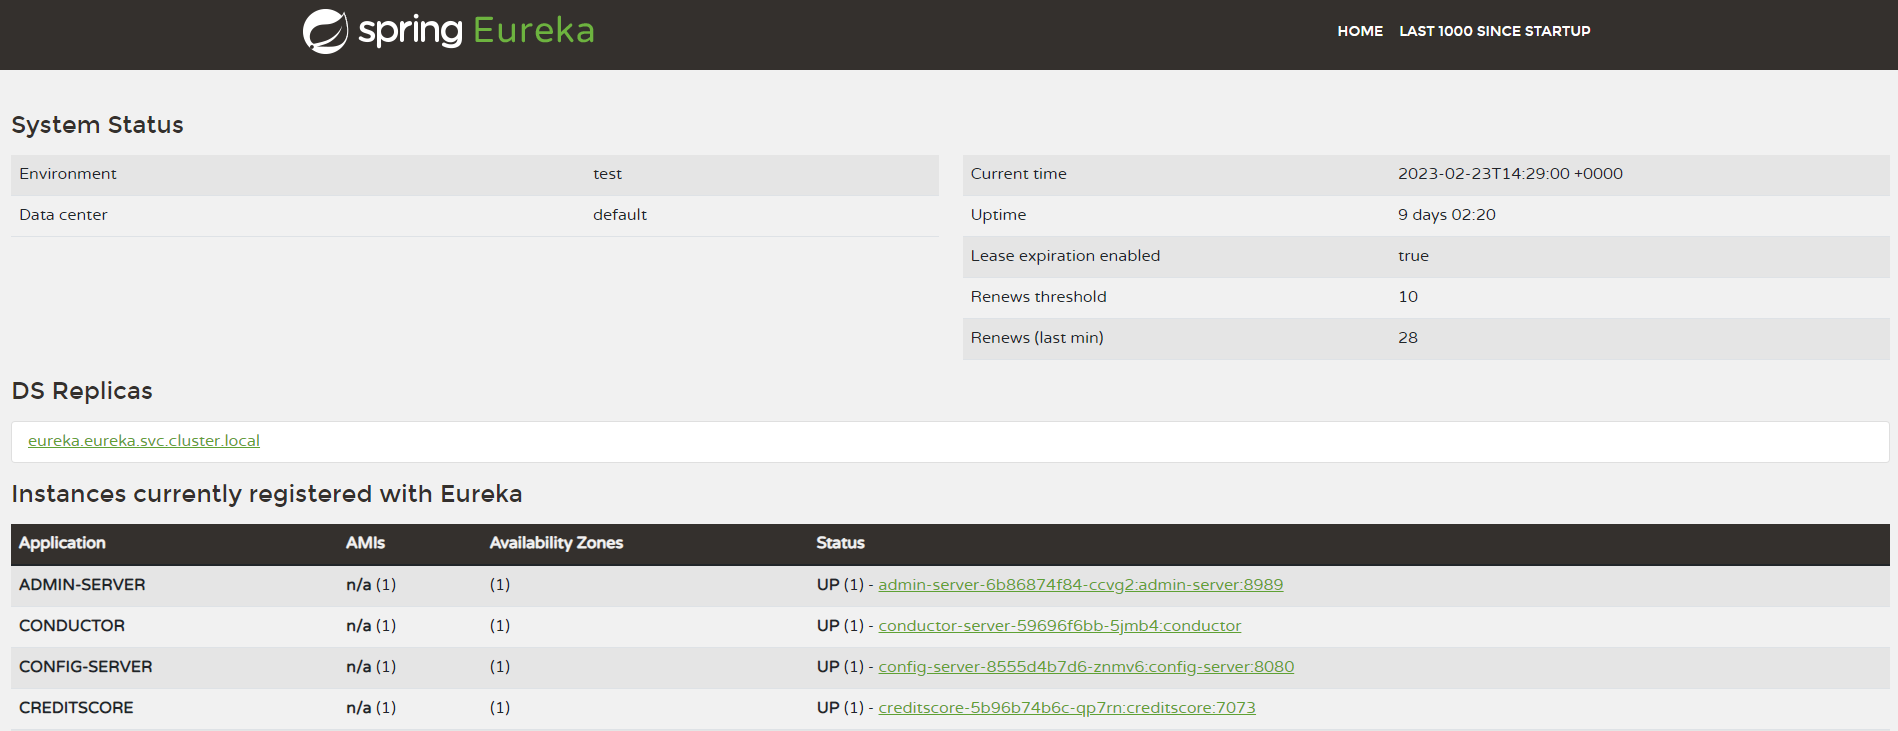
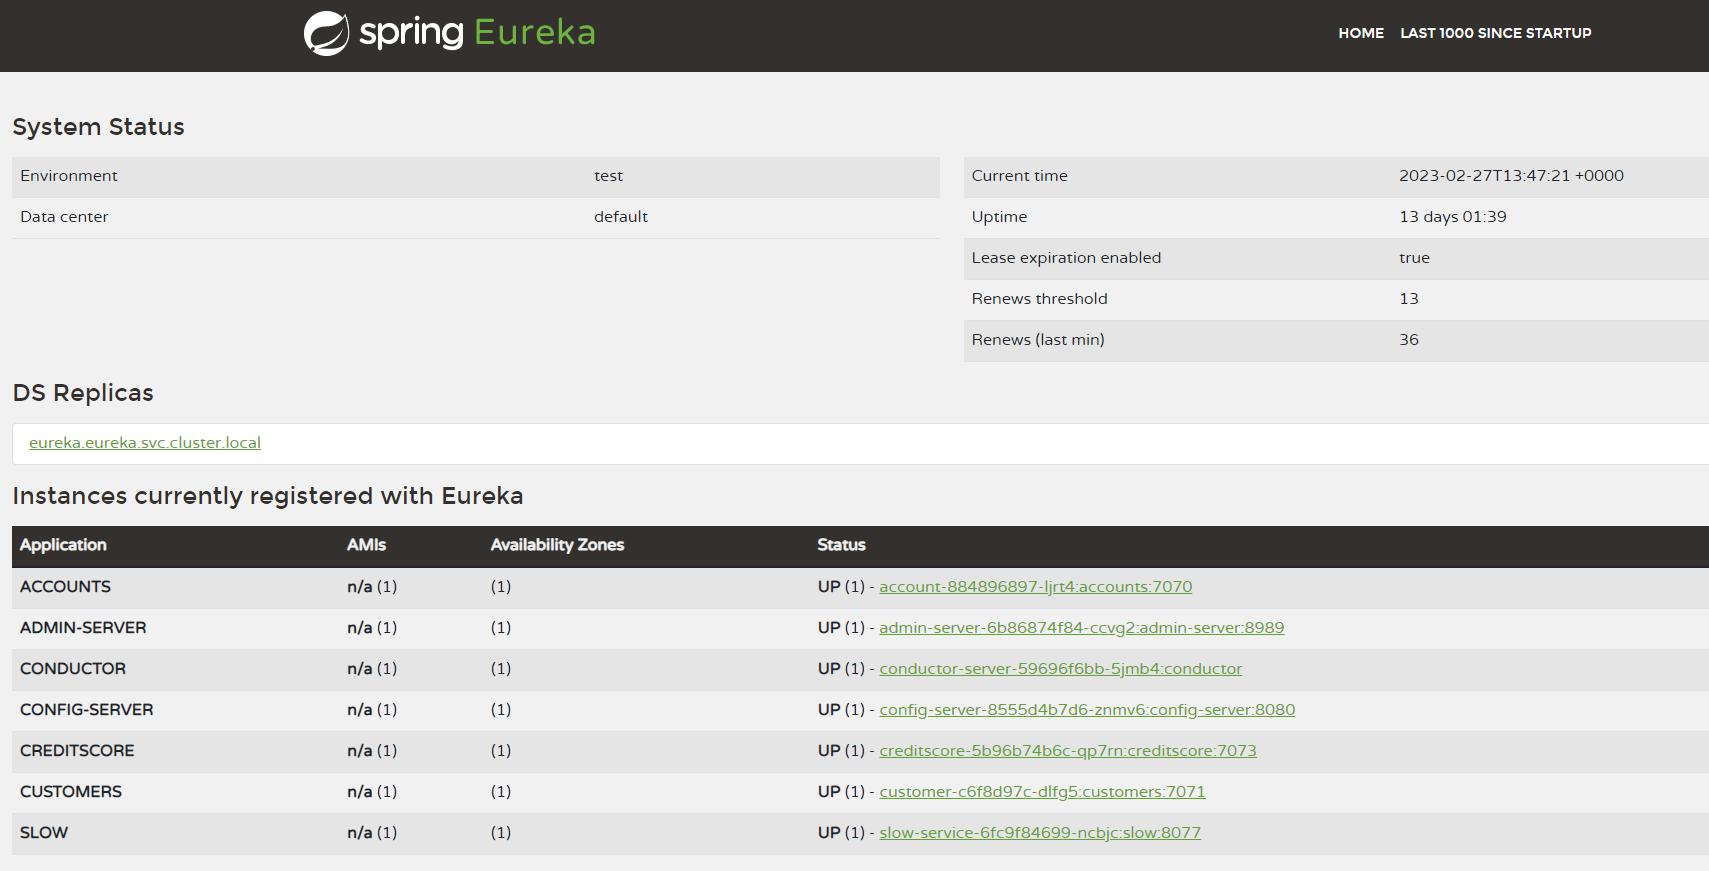
apisix etc

diff --git a/obaas/explore-platform/explore-platform.md b/obaas/explore-platform/explore-platform.md
@@ -25,7 +25,7 @@ This lab assumes you have:
 
 ## Task 1: Explore the Kuberenetes cluster 
 
-Oracle Backend for Spring Boot includes a number of platform services which are deployed into the Oracle Container Engine for Kubernetes cluster.  You configured **kubectl** to access your cluster in an earlier lab.  In this task, you will explore the services deployed in the Kubernetes cluster.
+Oracle Backend for Spring Boot includes a number of platform services which are deployed into the Oracle Container Engine for Kubernetes cluster.  You configured **kubectl** to access your cluster in an earlier lab.  In this task, you will explore the services deployed in the Kubernetes cluster.  A detailed explanation of Kubernetes concepts is beyond the scope of this course.
 
 1. Explore namespaces
 
@@ -82,22 +82,96 @@ Oracle Backend for Spring Boot includes a number of platform services which are 
 
 1. Explore pods 
 
-   TODO
+   Kubernetes runs workloads in "pods."  Each pod can container one or more containers.  There are different kinds of groupings of pods that handle scaling in different ways.  Use this command to review the pods in the `apisix` namespace:
+
+    ```
+    $ <copy>kubectl -n apisix get pods</copy>
+    NAME                               READY   STATUS    RESTARTS        AGE
+    apisix-5b47fcc4-bm25w              1/1     Running   0               6d18h
+    apisix-5b47fcc4-h6pbv              1/1     Running   0               6d18h
+    apisix-5b47fcc4-zn76k              1/1     Running   0               6d18h
+    apisix-dashboard-6957c575f-lfchl   1/1     Running   4 (6d18h ago)   6d18h
+    apisix-etcd-0                      1/1     Running   0               6d18h
+    apisix-etcd-1                      1/1     Running   0               6d18h
+    apisix-etcd-2                      1/1     Running   0               6d18h
+    ```
+
+   The first three pods listed are the APISIX API Gateway itself.  These are part of a Kubernetes "deployment".  These share the requests between them.  In OCI, each of these three pods runs in a different availability zone to maximize availability.  The next pod is running the APISIX Dashboard user interface - there is only one instance of that pod running.  And the last three pods are running the etcd cluster that APISIX is using to store its state.  These three pods are part of a "stateful set".
+
+   To see details of the deployments and stateful set in this namespace use this command: 
+
+    ```
+    $ <copy>kubectl -n apisix get deploy,statefulset</copy>
+    NAME                               READY   UP-TO-DATE   AVAILABLE   AGE
+    deployment.apps/apisix             3/3     3            3           6d18h
+    deployment.apps/apisix-dashboard   1/1     1            1           6d18h
+    
+    NAME                           READY   AGE
+    statefulset.apps/apisix-etcd   3/3     6d18h
+    ```
+
+   If you want to view extended information about any object you can specify its name and the output format, as in this example:
+
+    ```
+    $ <copy>kubectl -n apisix get pod apisix-etcd-0</copy>
+    ```
 
 1. Explore services
 
-   TODO
+   Kubernetes services are essentially small load balancers that sit in front of groups of pods and provide a stable network address as well as load balancing.  To see the services in the `apisix` namespace use this command: 
+
+    ```
+    $ <copy>kubectl -n apisix get svc</copy>
+    NAME                   TYPE        CLUSTER-IP      EXTERNAL-IP   PORT(S)             AGE
+    apisix-admin           ClusterIP   10.123.66.40    <none>        9180/TCP            6d18h
+    apisix-dashboard       ClusterIP   10.123.58.88    <none>        80/TCP              6d18h
+    apisix-etcd            ClusterIP   10.123.82.236   <none>        2379/TCP,2380/TCP   6d18h
+    apisix-etcd-headless   ClusterIP   None            <none>        2379/TCP,2380/TCP   6d18h
+    apisix-gateway         NodePort    10.123.245.40   <none>        80:30801/TCP        6d18h
+    ```
+
+   Notice that the services give information about the ports.  You can get detailed information about a service by specifying its name and output format as you did earlier for a pod. 
 
 1. Explore secrets
 
-   TDOO
+   Sensitive information in Kubernetes is often kept in secrets that are mounted into the pods at runtime.  This means that the container images do not need to have the sensitive information stored in them.  It also helps with deploying to different environments where sensitive information like URLs and credentials for databases changes based on the environment.
 
-1. Explore config maps
+   Oracle Backend for Spring Boot creates a number of secrets for you so that your applications can securely access the Oracle Autonomous Database instance.  Review the secrets in the pre-created `application` namespace using this command: 
 
-   TODO
+    ```
+    $ <copy>kubectl -n application get secret</copy>
+    NAME                      TYPE                             DATA   AGE
+    obaasdevdb-db-secrets     Opaque                           5      10d
+    obaasdevdb-tns-admin      Opaque                           8      10d
+    registry-auth             kubernetes.io/dockerconfigjson   1      10d
+    tls-certificate           kubernetes.io/tls                4      10d
+    ```
 
+   Whenever you create a new application namespace with the CLI and bind it to the database, these secrets will be automatically created for you in that namespace.  The first one contains the credentials to access the Oracle Autonomous Database.  The second one contains the database client configuration files (`tnsadmin.ora`, `sqlnet.ora`, the keystores, and so on).  The third secret contains the credentials needed to pull container images from your container registry.  And the final secret contains certificates used within Kubernetes to encrypt traffic between pods and to authenticate to the Kubernetes API server. 
 
-   ![pciture](images/obaas-xxx.png)
+   You can view detailed information about a secret with a command like this (your output will be different). Note that the values are uuencoded in this output.: 
+
+    ```
+    $ <copy>kubectl -n application get secret obaasdevdb-db-secrets -o yaml</copy>
+    apiVersion: v1
+    data:
+      db.name: xxxxxxx
+      db.password: xxxxxxx
+      db.service: xxxxxxx
+      db.username: xxxxxxx
+      secret: xxxxxx
+    kind: Secret
+    metadata:
+      creationTimestamp: "2023-02-16T17:27:30Z"
+      name: obaasdevdb-db-secrets
+      namespace: application
+      resourceVersion: "2952562"
+      uid: 15110648-65b3-4d71-b749-c0cc9c2a2231
+    type: Opaque
+    ```
+
+   When you deploy a Spring Boot microservice application into Oracle Backend for Spring Boot, the pods that are created will have the values from this secret injected as environment variables that are referenced from the `application.yaml` to connect to the database.  The `xxxxxx-tns-admin` secret will be mounted in the pod to provide access to the configuration and keystores to allow your application to authenticate to the database.
+
 
 ## Task 2: Explore the Oracle Autonomous Database instance
 
@@ -107,16 +181,34 @@ xyz
 
    instuctions
 
-   ![pciture](images/obaas-xxx.png)
+   ![pciture](images/obaas-adb-1.png)
+
+   ![pciture](images/obaas-adb-2.png)
+
+   ![pciture](images/obaas-adb-3.png)
+
+   ![pciture](images/obaas-adb-4.png)
+
+   ![pciture](images/obaas-adb-5.png)
+
+
+    ```sql
+    select owner, table_name
+    from dba_tables
+    where owner in ('CUSTOMER_SVC', 'FRAUD_SVC', 'ACCOUNT_SVC',  'USER_SVC', 'CONFIGSERVER')
+    ```   
+
 
 
 ## Task 3: Explore Spring Admin
 
-xyz
+Oracle Backend for Spring Boot includes Spring Admin which provides a web user interface for managing and monitoring Spring applications.
 
-1. Do something
+1. Connect to Spring Admin
 
-   instuctions
+   Oracle Backend for Spring Boot does not expose management interfaces outside the Kubernetes cluster for improved security.  Oracle recommends you access these interfaces using **kubectl** port forwarding, which creates an encrypted tunnel from your client machine to the cluster to access a specific service in the cluster.
+
+   Open a tunnel to the Spring Admin server using this command:
 
     ```
     <copy>kubectl -n admin-server port-forward svc/admin-server 8989:8989</copy>
@@ -124,26 +216,30 @@ xyz
 
     Open a web browser to [http://localhost:8989](http://localhost:8989) to view the Spring Admin web user interface.
 
-    Click on **TODO** to view the "wallboard" which shows all of the discovered services.  Spring Admin discovers services from the Spring Eureka Service Registry.
+    Click on the **Wallboard** link in the top menu to view the "wallboard" which shows all of the discovered services.  Spring Admin discovers services from the Spring Eureka Service Registry. 
 
    ![Spring Admin Wallboard](images/obaas-spring-admin-1.png)
 
-1. Do something
+   Each hexagon represents a service.  Notice that this display gives you a quick overview of the health of your system.  Green services are healthy, grey services have reduced availability and red services are not healthy.  You can also see information about how many instances (i.e. pods) are available for each service.
 
-   instuctions
+1. View information about a service
+
+   Click on the **Customer** service.  You will see a detail page like this:
 
    ![Customer service details](images/obaas-spring-admin-2.png)
 
-1. Do something
+   On this page, you can see detailed information about service's health, and you can scroll down to see information about resource usage.  The menu on the left hand side lets you view additional information about the service including its environment variables, the Spring beans loaded, its Spring configuration properties and so on.  You can also access metrics from this interface.
 
-   instuctions
+1. View endpoints
+
+   Click on the **Mappings** link in the left hand side menu.  This page shows you information about the URL Path mappings (or endpoints) exposed by this service.  You will notice several endpoints exposed by Spring Actuator, which enables this management and monitoring to be possible.  And you will see your service's own endpoints, in this example the ones that start with `/api/v1/...`:
 
    ![Customer service endpoint list](images/obaas-spring-admin-3.png)
 
 
 ## Task 4: Explore Spring Eureka Service Registry
 
-xyz
+Spring Eureka Service Registry is an application that holds information about what microservices are running in your environment, how many instances of each are running, and on which addresses and ports.  Spring Boot microservices register with Eureka at startup and it regularly checks the health of all registered services.  Services can use Eureka to make calls to other services, thereby eliminating the need to hard code service addresses into other services.
 
 1. Start a port-forward tunnel to access the Eureka web user interface
 
@@ -155,27 +251,45 @@ xyz
 
    Open a web broswer to [http://localhost:8080](http://localhost:8080) to view the Eureka web user interface.  It will appear similar to the image below.
 
-   TODO replace this image with one that shows all service deployed.
-
    ![Eureka web user interface](images/obaas-eureka.png)
+
+   Notice that you can see your own services like the Accounts, Credit Score and Customer services from the CloudBank sample application, as well as platform services like Spring Admin, the Spring Config server and Conductor.
 
 ## Task 5: Explore APISIX API Gateway
 
-xyz
+Oracle Backend for Spring Boot includes APISIX API Gateway to manage which services are made available outside of the Kubernetes cluster.  APISIX allows you to manage many aspects of the services' APIs including authentication, logging, which HTTP methods are accepted, what URL paths are exposed, and also includes capabilities like rewriting, filtering, traffic management and has a rich plugin ecosystem to enhance it with additional capabilities.  You cam manage the APISIX API Gateway using the APISIX Dashboard.
 
-1. Do something
+1. Access the APISIX Dashboard
 
    Start the tunnel using this command.  You can run this in the background if you prefer.
 
     ```
-    $ <copy>kubectl n apisix port-forward svc/apisix-dashboard 8080:80</copy>
+    $ <copy>kubectl -n apisix port-forward svc/apisix-dashboard 8080:80</copy>
     ```
 
    Open a web broswer to [http://localhost:8080](http://localhost:8080) to view the APISIX Dashboard web user interface.  It will appear similar to the image below.
    
-   instuctions
+   If prompted to login, login with user name `admin` and password `admin`.  Note that Oracle strongly recommends that you change the password, even though this interface is not accessible outside the cluster without a tunnel.
+
+   Open the routes page from the left hand side menu.  You will see the routes that you defined in earlier labs:
 
    ![APISIX Dashboard route list](images/obaas-apisix-route-list.png)
+
+1. View details of a route
+
+   Click on the **Configure** button next to the **account** route.  The first page shows information about the route defintion.  Scroll down to the **Request Basic Define** section.  Notice how you can set the host, port, paths, HTTP Methods and other information for the API.
+
+   ![APISIX route definition](images/obaas-apisix-route-1.png)
+
+   Click on the **Next** button to move to the **Define API Backend Server** page where you can set the routing/load balancing algorithm, retries, timeout and so on.  On this page you will notice that the upstream service is defined using **Service Discovery** and the discovery type is **Eureka**.  The **Service Name** specified here is the key used to look up the service in the Spring Eureka Service Registry.  APISIX will route to any available instance of the service registered in Eureka.
+
+   ![Configure route](images/obaas-apisix-route-2.png)
+
+   Click on the **Next** button to move to the **Plugin Config** page.  The routes in the CloudBank sample do no use any of the plugins, however you can scroll through this page to get an idea of what plugins are available for your services.
+
+   ![APISIX plugin config](images/obaas-apisix-route-3.png)
+
+   > **Note**: You can find detailed information about the available plugins and how to configure them in the [APISIX documentation](https://apisix.apache.org/docs/apisix/getting-started/) in the **Plugins** section.
 
 
 ## Task 1: Explore Spring Config Server
@@ -186,7 +300,7 @@ xyz
 
    instuctions
 
-   ![pciture](images/obaas-xxx.png)
+   ![pciture](images/obaas-config-server-table.png)
 
 ## Task 1: Explore Prometheus and Grafana
 
